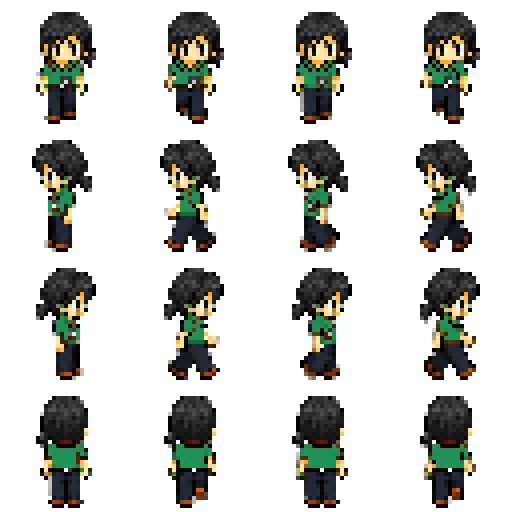
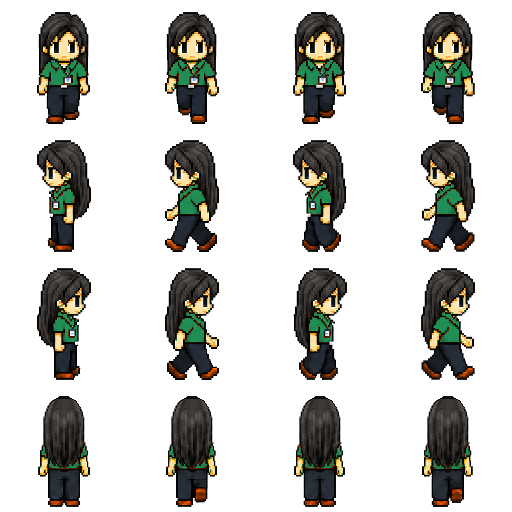
fix UI

diff --git a/tests/game-smoke.test.js b/tests/game-smoke.test.js
@@ -232,6 +232,8 @@ test('selected character gender and appearance choose the matching overworld ani
   } });
   assert.equal(blue.imageRequests.includes('assets/characters/player-v4.png'), false);
   assert.equal(blue.imageRequests.includes('assets/characters/player-female-blue-v4.png'), true);
+  assert.equal(blue.imageRequests.includes('assets/characters/player-bicycle-female-blue-v1.png'), true);
+  assert.equal(blue.imageRequests.includes('assets/characters/bicycle-overlay-v4.png'), false);
   assert.equal(blue.imageRequests.filter((asset) => asset === 'assets/characters/npc-v4.png').length, 1,
     'the NPC sheet should no longer double as the female player sheet');
 
@@ -240,6 +242,8 @@ test('selected character gender and appearance choose the matching overworld ani
     slots: [{ id: 1, name: 'Hana', gender: 'female', appearance: 'orange', sandbox: false, onboardingComplete: true }],
   } });
   assert.equal(orange.imageRequests.includes('assets/characters/player-female-orange-v4.png'), true);
+  assert.equal(orange.imageRequests.includes('assets/characters/player-bicycle-female-orange-v1.png'), true);
+  assert.equal(orange.imageRequests.includes('assets/characters/bicycle-overlay-v4.png'), false);
 });
 
 test('successful bootstrap paints synchronously and resize repaints the cleared canvas', async () => {
@@ -2195,10 +2199,34 @@ test('Bicycle uses the unified male-orange sheet with direct direction rows', as
   assert.equal(verticalRider.args[6], 42, 'front/back bicycle scale should remain unchanged');
 });
 
+test('Bicycle uses each female profile unified riding sheet instead of the layered fallback', async () => {
+  const profiles = [
+    { appearance: 'orange', asset: 'assets/characters/player-bicycle-female-orange-v1.png' },
+    { appearance: 'blue', asset: 'assets/characters/player-bicycle-female-blue-v1.png' },
+  ];
+  for (const profile of profiles) {
+    const { debug, drawCalls } = createGame({ enableSkillQaSeed: true, characterSlotsSave: {
+      version: 2, activeSlot: 1,
+      slots: [{ id: 1, name: 'Hana', gender: 'female', appearance: profile.appearance,
+        sandbox: false, onboardingComplete: true }],
+    } });
+    assert.equal(debug.purchaseSkill('bicycle').ok, true);
+    assert.equal(debug.toggleBicycle(), true);
+    await new Promise((resolve) => setImmediate(resolve));
+    const player = debug.getPlayer(); player.facing = 'right'; player.frame = 1;
+    drawCalls.length = 0; debug.renderOnce();
+    assert.ok(drawCalls.some((call) => call.type === 'drawImage' && call.src === profile.asset),
+      `missing unified bicycle rider ${profile.asset}`);
+    assert.equal(drawCalls.some((call) => call.type === 'drawImage'
+      && call.src === 'assets/characters/bicycle-overlay-v4.png'), false,
+    `${profile.asset} must not render the layered bicycle fallback`);
+  }
+});
+
 test('Bicycle side view keeps the layered fallback for skins without a unified sheet', async () => {
   const { debug, drawCalls } = createGame({ enableSkillQaSeed: true, characterSlotsSave: {
     version: 2, activeSlot: 1,
-    slots: [{ id: 1, name: 'Hana', gender: 'female', appearance: 'orange', sandbox: false, onboardingComplete: true }],
+    slots: [{ id: 1, name: 'Sora', gender: 'neutral', appearance: 'blue', sandbox: false, onboardingComplete: true }],
   } });
   assert.equal(debug.purchaseSkill('bicycle').ok, true);
   assert.equal(debug.toggleBicycle(), true);
@@ -2214,7 +2242,7 @@ test('Bicycle side view keeps the layered fallback for skins without a unified s
     if (call.type !== 'drawImage') return;
     if (call.src === 'assets/characters/bicycle-overlay-v4.png') {
       bikeIndexes.push(index); bikeCalls.push(call);
-    } else if (call.src === 'assets/characters/player-female-orange-v4.png') {
+    } else if (call.src === 'assets/characters/player-blue-v4.png') {
       riderIndex = index; riderCall = call;
     }
   });

diff --git a/tests/character-animation.test.js b/tests/character-animation.test.js
@@ -171,8 +171,12 @@ test('V4 bicycle keeps left/right geometry mirrored and one-wheel front/back sil
   }
 });
 
-test('unified orange rider sheet keeps a transparent 128px grid and mirrored side animation', () => {
-  const sheet = decodeRgba('assets/characters/player-bicycle-orange-v1.png'), cell = 128;
+for (const riderAsset of [
+  'assets/characters/player-bicycle-orange-v1.png',
+  'assets/characters/player-bicycle-female-orange-v1.png',
+  'assets/characters/player-bicycle-female-blue-v1.png',
+]) test(`${riderAsset} keeps a transparent 128px grid and mirrored side animation`, () => {
+  const sheet = decodeRgba(riderAsset), cell = 128;
   assert.equal(sheet.width, cell * 4); assert.equal(sheet.height, cell * 4);
   assert.equal(pixel(sheet, 0, 0)[3], 0, 'spritesheet background must use real transparency');
   for (let frame = 0; frame < 4; frame += 1) {
@@ -204,7 +208,7 @@ test('unified orange rider sheet keeps a transparent 128px grid and mirrored sid
         }
       }
       assert.equal(componentCount, 1,
-        `unified rider ${row}:${frame} contains a detached sprite fragment`);
+        `${riderAsset} ${row}:${frame} contains a detached sprite fragment`);
     }
   }
 });

diff --git a/js/game.js b/js/game.js
@@ -6845,8 +6845,9 @@ setState('battle'); autoRidePath = []; playSFX('BATTLE_ENCOUNTER'); const attack
     ? (activeAppearance === 'blue' && C.ASSETS.playerFemaleBlue
       ? C.ASSETS.playerFemaleBlue : (C.ASSETS.playerFemale || C.ASSETS.player))
     : (activeAppearance === 'blue' && C.ASSETS.playerBlue ? C.ASSETS.playerBlue : C.ASSETS.player);
-  const activePlayerBicycleAsset = activeProfile?.gender !== 'female' && activeAppearance !== 'blue'
-    ? C.ASSETS.playerBicycleOrange : null;
+  const activePlayerBicycleAsset = activeProfile?.gender === 'female'
+    ? (activeAppearance === 'blue' ? C.ASSETS.playerBicycleFemaleBlue : C.ASSETS.playerBicycleFemale)
+    : (activeAppearance !== 'blue' ? C.ASSETS.playerBicycleOrange : null);
   const activePlayerUsesV4 = [C.ASSETS.player, C.ASSETS.playerBlue,
     C.ASSETS.playerFemale, C.ASSETS.playerFemaleBlue].includes(activePlayerAsset);
   const activePlayerFrameSize = Math.max(TILE, Number(C.CHARACTER && C.CHARACTER[

diff --git a/tests/project.test.js b/tests/project.test.js
@@ -450,6 +450,14 @@ test('character animation sheets use the configured high-detail transparent 4x4 
   assert.equal(bicycle.height, CONFIG.CHARACTER.bicycleFrameSize * 4);
   assert.ok(bicycle.colorType === 4 || bicycle.colorType === 6,
     `${CONFIG.ASSETS.bicycleOverlay} must contain an alpha channel`);
+  for (const asset of [CONFIG.ASSETS.playerBicycleOrange, CONFIG.ASSETS.playerBicycleFemale,
+    CONFIG.ASSETS.playerBicycleFemaleBlue]) {
+    const rider = pngInfo(asset);
+    assert.equal(rider.width, CONFIG.CHARACTER.bicycleRiderFrameSize * 4);
+    assert.equal(rider.height, CONFIG.CHARACTER.bicycleRiderFrameSize * 4);
+    assert.ok(rider.colorType === 4 || rider.colorType === 6,
+      `${asset} must contain an alpha channel`);
+  }
 });
 
 test('extended terrain atlas contains sixteen 32px tiles', () => {

diff --git a/js/config.js b/js/config.js
@@ -15,6 +15,8 @@ window.CONFIG = {
     playerFemale: 'assets/characters/player-female-orange-v4.png',
     playerFemaleBlue: 'assets/characters/player-female-blue-v4.png',
     playerBicycleOrange: 'assets/characters/player-bicycle-orange-v1.png',
+    playerBicycleFemale: 'assets/characters/player-bicycle-female-orange-v1.png',
+    playerBicycleFemaleBlue: 'assets/characters/player-bicycle-female-blue-v1.png',
     bicycleOverlay: 'assets/characters/bicycle-overlay-v4.png',
     npc:     'assets/characters/npc-v4.png',
     tileset: 'assets/world/tileset.png',
